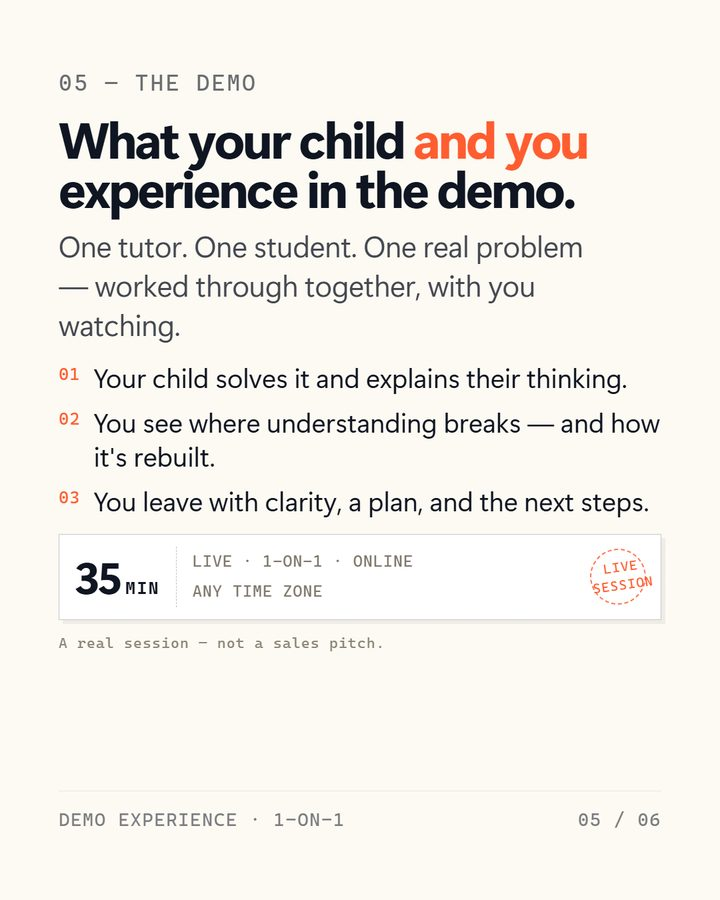
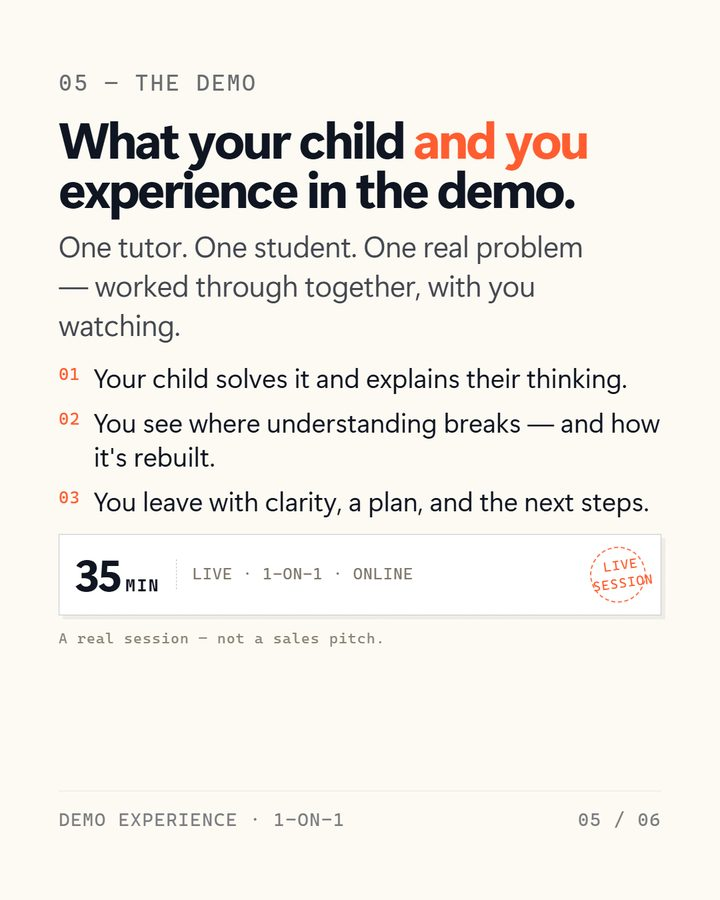
S5 ticket: drop 'any time zone' line for cleaner badge

Changed region(s): [[0.0917, 0.6222, 0.5194, 0.7156], [0.825, 0.5911, 0.9167, 0.6844], [0.4889, 0.6222, 0.5806, 0.6533]]

diff --git a/nextgen-creative-kit-45.html b/nextgen-creative-kit-45.html
@@ -753,7 +753,7 @@
           </ol>
           <div class="ticket">
             <div class="big">35<small>MIN</small></div>
-            <div class="meta">LIVE · 1-ON-1 · ONLINE<br>ANY TIME ZONE</div>
+            <div class="meta">LIVE · 1-ON-1 · ONLINE</div>
             <div class="seal">LIVE<br>SESSION</div>
           </div>
           <div class="s5-after">A real session — not a sales pitch.</div>

diff --git a/nextgen-creative-kit-riyadh-45.html b/nextgen-creative-kit-riyadh-45.html
@@ -754,7 +754,7 @@
           </ol>
           <div class="ticket">
             <div class="big">35<small>MIN</small></div>
-            <div class="meta">LIVE · 1-ON-1 · ONLINE<br>ANY TIME ZONE</div>
+            <div class="meta">LIVE · 1-ON-1 · ONLINE</div>
             <div class="seal">LIVE<br>SESSION</div>
           </div>
           <div class="s5-after">A real session — not a sales pitch.</div>

diff --git a/nextgen-creative-kit-riyadh.html b/nextgen-creative-kit-riyadh.html
@@ -754,7 +754,7 @@
           </ol>
           <div class="ticket">
             <div class="big">35<small>MIN</small></div>
-            <div class="meta">LIVE · 1-ON-1 · ONLINE<br>ANY TIME ZONE</div>
+            <div class="meta">LIVE · 1-ON-1 · ONLINE</div>
             <div class="seal">LIVE<br>SESSION</div>
           </div>
           <div class="s5-after">A real session — not a sales pitch.</div>

diff --git a/nextgen-creative-kit.html b/nextgen-creative-kit.html
@@ -753,7 +753,7 @@
           </ol>
           <div class="ticket">
             <div class="big">35<small>MIN</small></div>
-            <div class="meta">LIVE · 1-ON-1 · ONLINE<br>ANY TIME ZONE</div>
+            <div class="meta">LIVE · 1-ON-1 · ONLINE</div>
             <div class="seal">LIVE<br>SESSION</div>
           </div>
           <div class="s5-after">A real session — not a sales pitch.</div>
